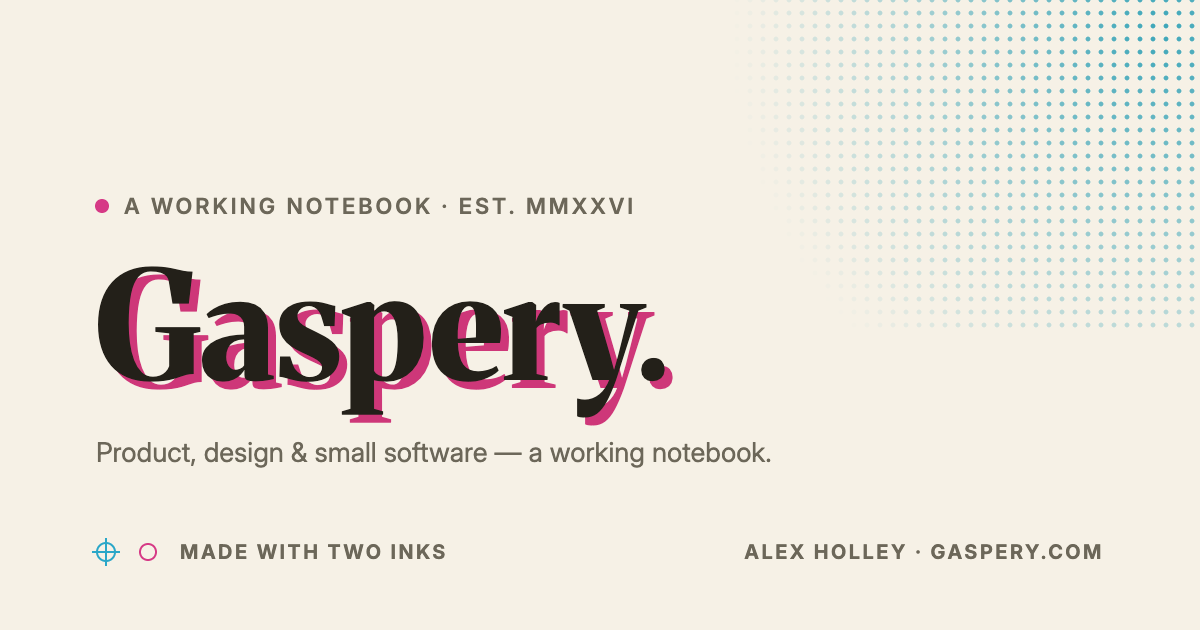
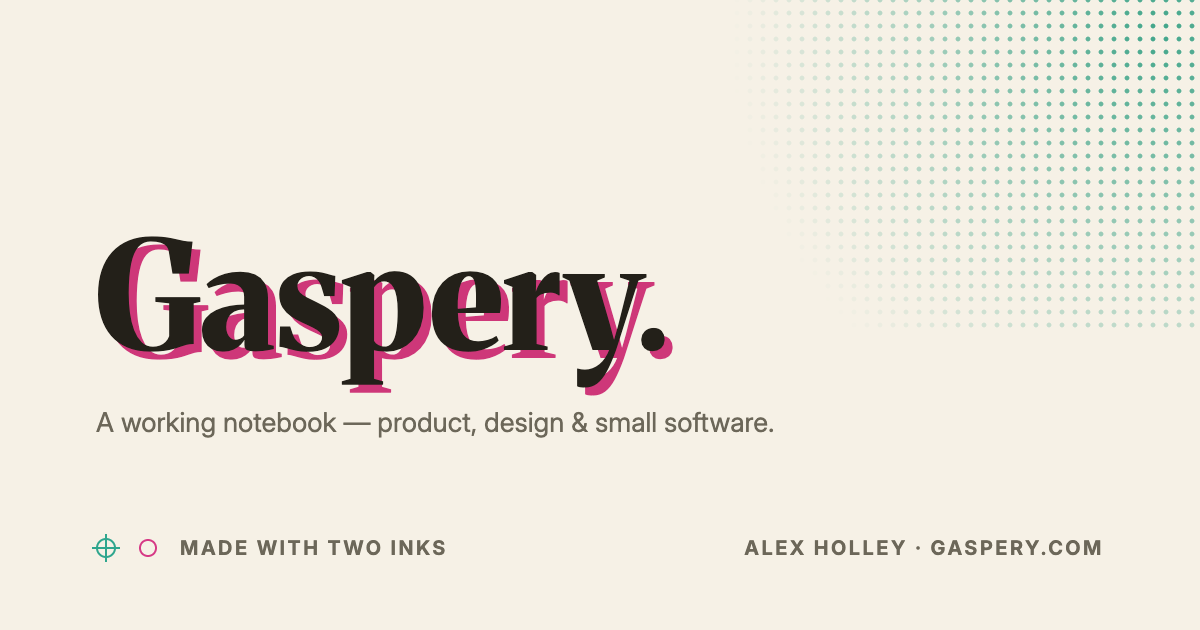
feat: drop the hero eyebrow, and repress the second ink as verdigris
Two owner calls on the homepage's opening beat:

- The eyebrow ("A working notebook · Est. MMXXVI") added nothing where it
  sat and was the page's one all-caps-body offender. The hero now opens
  straight on the wordmark, and the intro carries the line instead: "A
  working notebook — essays, experiments, and my favourites folder
  unloaded, because there's a lot to share." The prop is optional (empty
  hides it; Keystatic field relabelled), so the 404 keeps its diagnosis
  eyebrow.

- The second ink moves off the electric-cyan axis: #2FA68E / #16755F /
  dark #63CCAF — verdigris, oxidized copper rather than dashboard aqua,
  picked from a side-by-side board in both schemes. A like-for-like
  pressing (marks 2.68:1, text 4.98:1, dark 9.2:1 vs cyan's 2.5/5.09/9.2),
  so the whole system followed through the tokens: halftone, monogram
  ghost, registration marks, permalink stars, numerals, labels, favicon.
  Magenta + verdigris is the classic riso pairing anyway.

The og card is reprinted in the new ink with the redundant eyebrow line
removed. DESIGN.md records both decisions.

diff --git a/src/styles/global.css b/src/styles/global.css
@@ -24,11 +24,13 @@
      darkening (brand is 6.24:1 there), so both resolve to the dark brand ramp. */
   --color-brand-strong:       #B82E70;
   --color-brand-strong-hover: #D63A86;
-  --color-teal:           #2AA7C8;
-  /* Teal as *text*. Display teal is 2.50:1 on the bone ground — it can only
-     ever be a mark, never a word. This is the same ink darkened to 5.09:1,
-     matching the secondary ink's weight. Dark needs no darkening. */
-  --color-teal-ink:       #1A6F86;
+  /* The second ink, pressed as verdigris (2026-08: moved off the electric
+     cyan axis — oxidized copper reads print, not dashboard). */
+  --color-teal:           #2FA68E;
+  /* Teal as *text*. Display verdigris is 2.68:1 on the bone ground — it can
+     only ever be a mark, never a word. This is the same ink darkened to
+     4.98:1, matching the secondary ink's weight. Dark needs no darkening. */
+  --color-teal-ink:       #16755F;
   /* One step darker than the original pressings (#4E7A44 / #9A6516, which sat
      at 4.45:1 and 4.39:1) so the 10px status pills clear AA's 4.5:1. */
   --color-positive:       #4A7441;
@@ -71,8 +73,8 @@
     --color-brand-bright:   #F582B5;
     --color-brand-strong:       #F06AA6;
     --color-brand-strong-hover: #F582B5;
-    --color-teal:           #5CC7E8;
-    --color-teal-ink:       #5CC7E8;   /* 9.20:1 on the dark ground already */
+    --color-teal:           #63CCAF;
+    --color-teal-ink:       #63CCAF;   /* 9.2:1 on the dark ground already */
     --color-positive:       #9DBB7F;
     --color-warning:        #E0A33E;
     --color-error:          #E86254;

diff --git a/keystatic.config.ts b/keystatic.config.ts
@@ -162,7 +162,7 @@ export default config({
       schema: {
         hero: fields.object(
           {
-            eyebrow: fields.text({ label: 'Eyebrow' }),
+            eyebrow: fields.text({ label: 'Eyebrow (leave empty to hide)' }),
             title: fields.text({ label: 'Title', multiline: true }),
             intro: fields.text({ label: 'Intro', multiline: true }),
           },

diff --git a/DESIGN.md b/DESIGN.md
@@ -12,8 +12,8 @@ colors:
   brand-bright: "#B82E70"
   brand-strong: "#B82E70"
   brand-strong-hover: "#D63A86"
-  teal: "#2AA7C8"
-  teal-ink: "#1A6F86"
+  teal: "#2FA68E"
+  teal-ink: "#16755F"
   positive: "#4A7441"
   warning: "#94600F"
   error: "#C0392B"
@@ -148,8 +148,8 @@ ramp; semantic colors appear only on status and error states.
 - **Brand Strong** (`--color-brand-strong`, `#B82E70` light / `#F06AA6` dark): the same ink pressed harder. Brand is 3.88:1 on bone — fine at WCAG-large sizes, short of AA below ~19px — so small-text links at rest (more-links, prose links, page-end links, the skip link), the "New" tag ground, and the mobile active nav take this 5.09:1 press; hover lifts to **Brand Strong Hover** (`--color-brand-strong-hover`, `#D63A86` / `#F582B5`). In dark, brand already clears 6.24:1, so both resolve to the ordinary dark brand ramp and nothing changes there.
 
 ### Secondary
-- **Registration Teal** (`--color-teal`, `#2AA7C8` light / `#5CC7E8` dark): the second ink. The halftone field, the monogram ghost, and every registration mark. Used sparingly — its rarity is what makes it a signature. **Never set type in it**: on the bone ground it measures 2.50:1, below every WCAG threshold. It is a mark, not a word.
-- **Teal Ink** (`--color-teal-ink`, `#1A6F86` light / `#5CC7E8` dark): the same ink darkened enough to be read. 5.09:1 on bone — the weight of the secondary ink — and unchanged in dark, where display teal already clears 9.20:1. Used for the small set of teal things that are text: app enumerations, Now-panel field labels, quote attributions, and the ↗ / ★ marks on linked posts.
+- **Registration Teal** (`--color-teal`, `#2FA68E` light / `#63CCAF` dark): the second ink, pressed as **verdigris** — oxidized copper rather than electric cyan (repressed 2026-08: the cyan axis had become the saturated AI-dashboard accent; verdigris reads print and patina, and magenta + green-teal is a classic risograph pairing). The halftone field, the monogram ghost, and every registration mark. Used sparingly — its rarity is what makes it a signature. **Never set type in it**: on the bone ground it measures 2.68:1, below every WCAG threshold. It is a mark, not a word.
+- **Teal Ink** (`--color-teal-ink`, `#16755F` light / `#63CCAF` dark): the same ink darkened enough to be read. 4.98:1 on bone — the weight of the secondary ink — and unchanged in dark, where the display pressing already clears 9.2:1. Used for the small set of teal things that are text: app enumerations, Now-panel field labels, quote attributions, and the ↗ / ★ marks on linked posts.
 
 ### Neutral
 - **Bone Paper** (`--color-paper`, `#F6F1E6` / `#191712`): the page ground.
@@ -179,8 +179,8 @@ Full light/dark reference (dark values are theme-aware by default via
 | `--color-brand-bright` | `#B82E70` | `#F582B5` | hover state for brand |
 | `--color-brand-strong` | `#B82E70` | `#F06AA6` | brand for small text (≤14px links at rest), "New" tag ground, mobile active nav |
 | `--color-brand-strong-hover` | `#D63A86` | `#F582B5` | hover state for brand-strong |
-| `--color-teal` | `#2AA7C8` | `#5CC7E8` | second ink — halftone, ghost, registration marks. Never type |
-| `--color-teal-ink` | `#1A6F86` | `#5CC7E8` | teal as text — labels, enumerations, attributions, permalink marks |
+| `--color-teal` | `#2FA68E` | `#63CCAF` | second ink (verdigris) — halftone, ghost, registration marks. Never type |
+| `--color-teal-ink` | `#16755F` | `#63CCAF` | teal as text — labels, enumerations, attributions, permalink marks |
 | `--color-positive` | `#4A7441` | `#9DBB7F` | status: live |
 | `--color-warning` | `#94600F` | `#E0A33E` | status: WIP |
 | `--color-error` | `#C0392B` | `#E86254` | error state |
